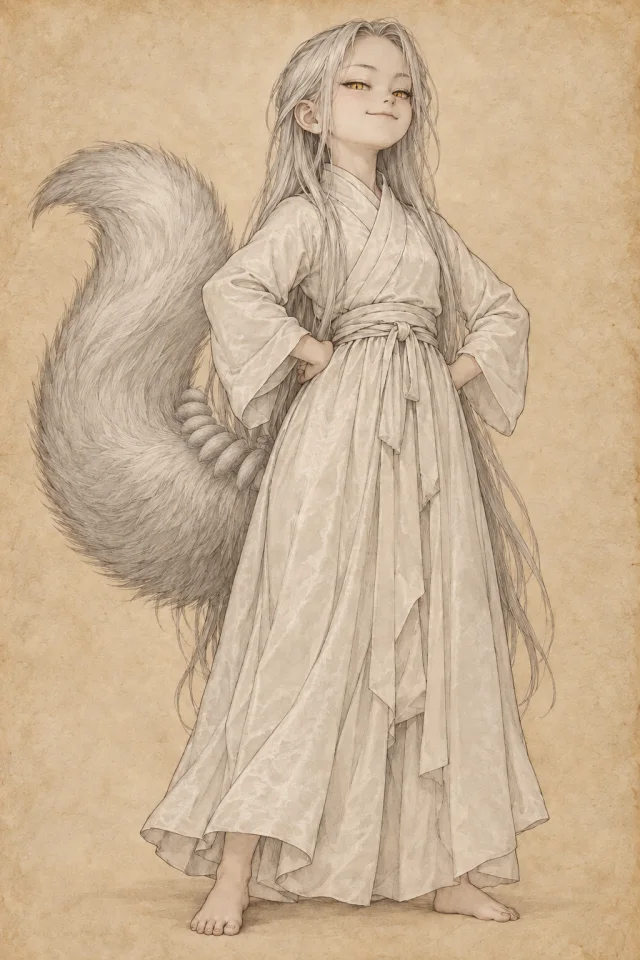
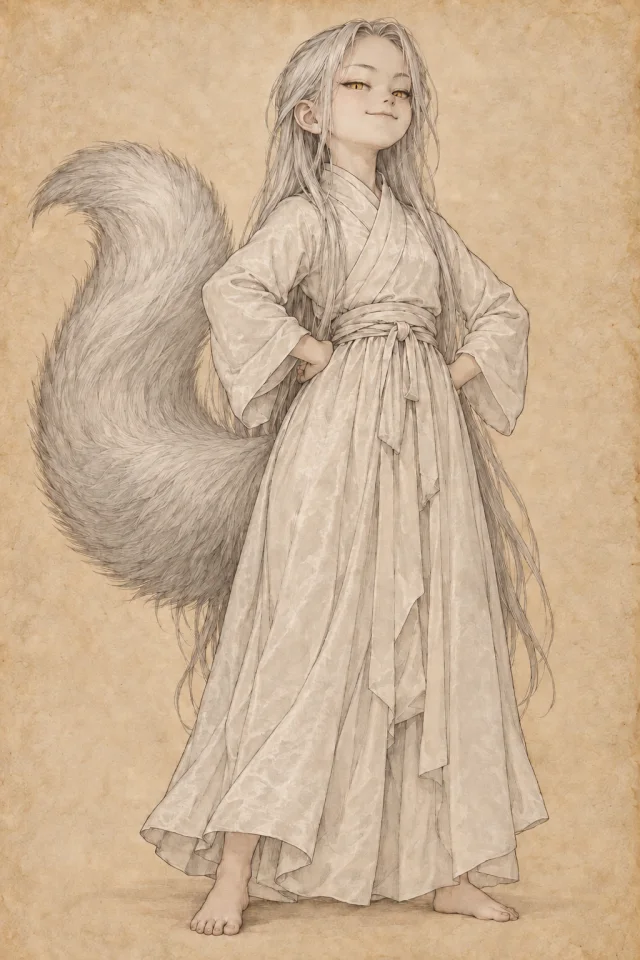
lingjing 银月: clear the stumps from her tail — one clean silver tail, portrait and card
Hanli 2026-10-01: 「断口去掉就好」 — the drawn stumps read as a stack of rings.
Codex repainted only the tail root on both kept pictures; the eight 断口 stay
in the book's words. YINYUE_FIX and the portrait prompt no longer ask for
stumps; CREDITS and the codex _credit say so.

diff --git a/lingjing/tools/paint-codex.py b/lingjing/tools/paint-codex.py
@@ -34,9 +34,11 @@ STYLE = ('Fine graphite and ink baimiao line drawing with a soft grey wash, on w
          'Chinese illustrated book. A single subject, plain empty background. No text, no characters, no calligraphy, '
          'no seal, no signature, no border, no frame, no dark edge or vignette — the paper runs to every edge. Ink and grey '
          'only, with at most a very faint warm tint; no strong colour.')
-YINYUE_FIX = ('Repaint the attached drawing; keep everything the same and change ONLY: at the root of the one big tail exactly '
-              'EIGHT short healed stubs, furred silver, in a small fan (not red, no raw flesh); golden irises with clear narrow '
-              'VERTICAL slit pupils. No fox ears.')
+# Hanli 2026-10-01: 「断口去掉就好」 — the eight 断口 stay in the book's words; the picture shows ONE clean tail
+# (drawn stumps came out as a caterpillar of rings). The kept roll was handed back with this to clear them.
+YINYUE_FIX = ('Repaint the attached drawing; keep everything the same and change ONLY the root of the big tail: remove '
+              'every ring, segment, stub or stump there, so the tail root is plain continuous silver fur — ONE clean, '
+              'full tail. Golden irises with clear narrow VERTICAL slit pupils. No fox ears.')
 OLD_CHINA = 'Set in old rural China (Ming dynasty dress), not Japanese, not Western.'
 
 PEOPLE = {
@@ -50,8 +52,8 @@ PEOPLE = {
   'laozhou': 'A sturdy middle-aged Chinese peasant farmer, plain face, patched cotton clothes, a straw rain cape over his shoulders, mud on his trouser legs, holding a burning pine torch. Full length.',
   'qulao': 'A very old Taoist temple steward, lean and straight, long white beard, stern eyes, plain grey Taoist robe, a bamboo broom in his hands. Full length.',
   # 银月 — 第一回: 「看着比他大不了几岁」, 小满 is twelve (Hanli, 2026-10-01: the first portrait drew a grown woman).
-  # Repainted 2026-10-01 in two passes: this prompt (the kept roll), then the roll handed back with YINYUE_FIX.
-  'yinyue': "银月, a fox spirit queen in human form, as a GIRL of about fourteen or fifteen — clearly a young teenager, not a woman: a youthful round-chinned girl's face, a small slight not-yet-grown build, narrow shoulders, flat chest, short of stature, a young teen's proportions (head about one-sixth of her height). Completely modest and non-sexual: the robe closed high at the neck. Silver hair, very long and loose, falling straight to below her waist. Barefoot. A plain modest white robe with a crossed collar tied with a sash, snow-white with a faint watery sheen. Golden eyes (a faint gold tint) with narrow vertical slit pupils. ONE big fluffy silver fox tail; at its root eight short cut stumps. Chin slightly raised, looking down her nose, hands on her hips — proud and imperious, a bit hungry and impish, a sly half-grin. No fox ears. Full length.",
+  # Repainted 2026-10-01: this prompt (the kept roll), then the roll handed back with YINYUE_FIX.
+  'yinyue': "银月, a fox spirit queen in human form, as a GIRL of about fourteen or fifteen — clearly a young teenager, not a woman: a youthful round-chinned girl's face, a small slight not-yet-grown build, narrow shoulders, flat chest, short of stature, a young teen's proportions (head about one-sixth of her height). Completely modest and non-sexual: the robe closed high at the neck. Silver hair, very long and loose, falling straight to below her waist. Barefoot. A plain modest white robe with a crossed collar tied with a sash, snow-white with a faint watery sheen. Golden eyes (a faint gold tint) with narrow vertical slit pupils. ONE big fluffy silver fox tail, clean and full, with no stumps, stubs, rings or segments at its root. Chin slightly raised, looking down her nose, hands on her hips — proud and imperious, a bit hungry and impish, a sly half-grin. No fox ears. Full length.",
 
   'chuxiansheng': 'A Chinese Taoist lecturer of about fifty with a small goat beard, a sour sharp face, plain grey scholar robe with a crossed collar, holding a thread-bound Chinese book rolled in one hand. Full length.',
   'sunergou': 'A thin timid Chinese boy of fourteen, a worried face, a plain grey Taoist disciple robe with a crossed collar and cloth sash, cloth shoes, clutching a small hand-sewn cloth charm pouch to his chest. Full length.',

diff --git a/lingjing/worlds/jiuding/art/CREDITS.md b/lingjing/worlds/jiuding/art/CREDITS.md
@@ -147,3 +147,9 @@ repainted the same day with Codex, given the new portrait as the character and t
 style and layout (the moon on the left); two first rolls without the portrait still read as a young lady with
 hairpins. The FLUX card of 2026-09-18 and the FLUX/Codex portraits before it are in git history. Every picture looked
 at. No outside source.
+
+Later the same day (his: 「断口去掉就好」 — the stumps read as a stack of rings, a caterpillar): both pictures were
+handed back to Codex to clear the tail root only, leaving one clean, full silver tail; everything else unchanged.
+The eight 断口 stay in the book's words and the 图鉴 line; the pictures don't draw them. A round asking for eight
+fanned, healed stubs was painted first and set aside unlooked-at when he changed the ask. Two rolls each, all
+four clean; kept the ones whose face and eyes matched best.
